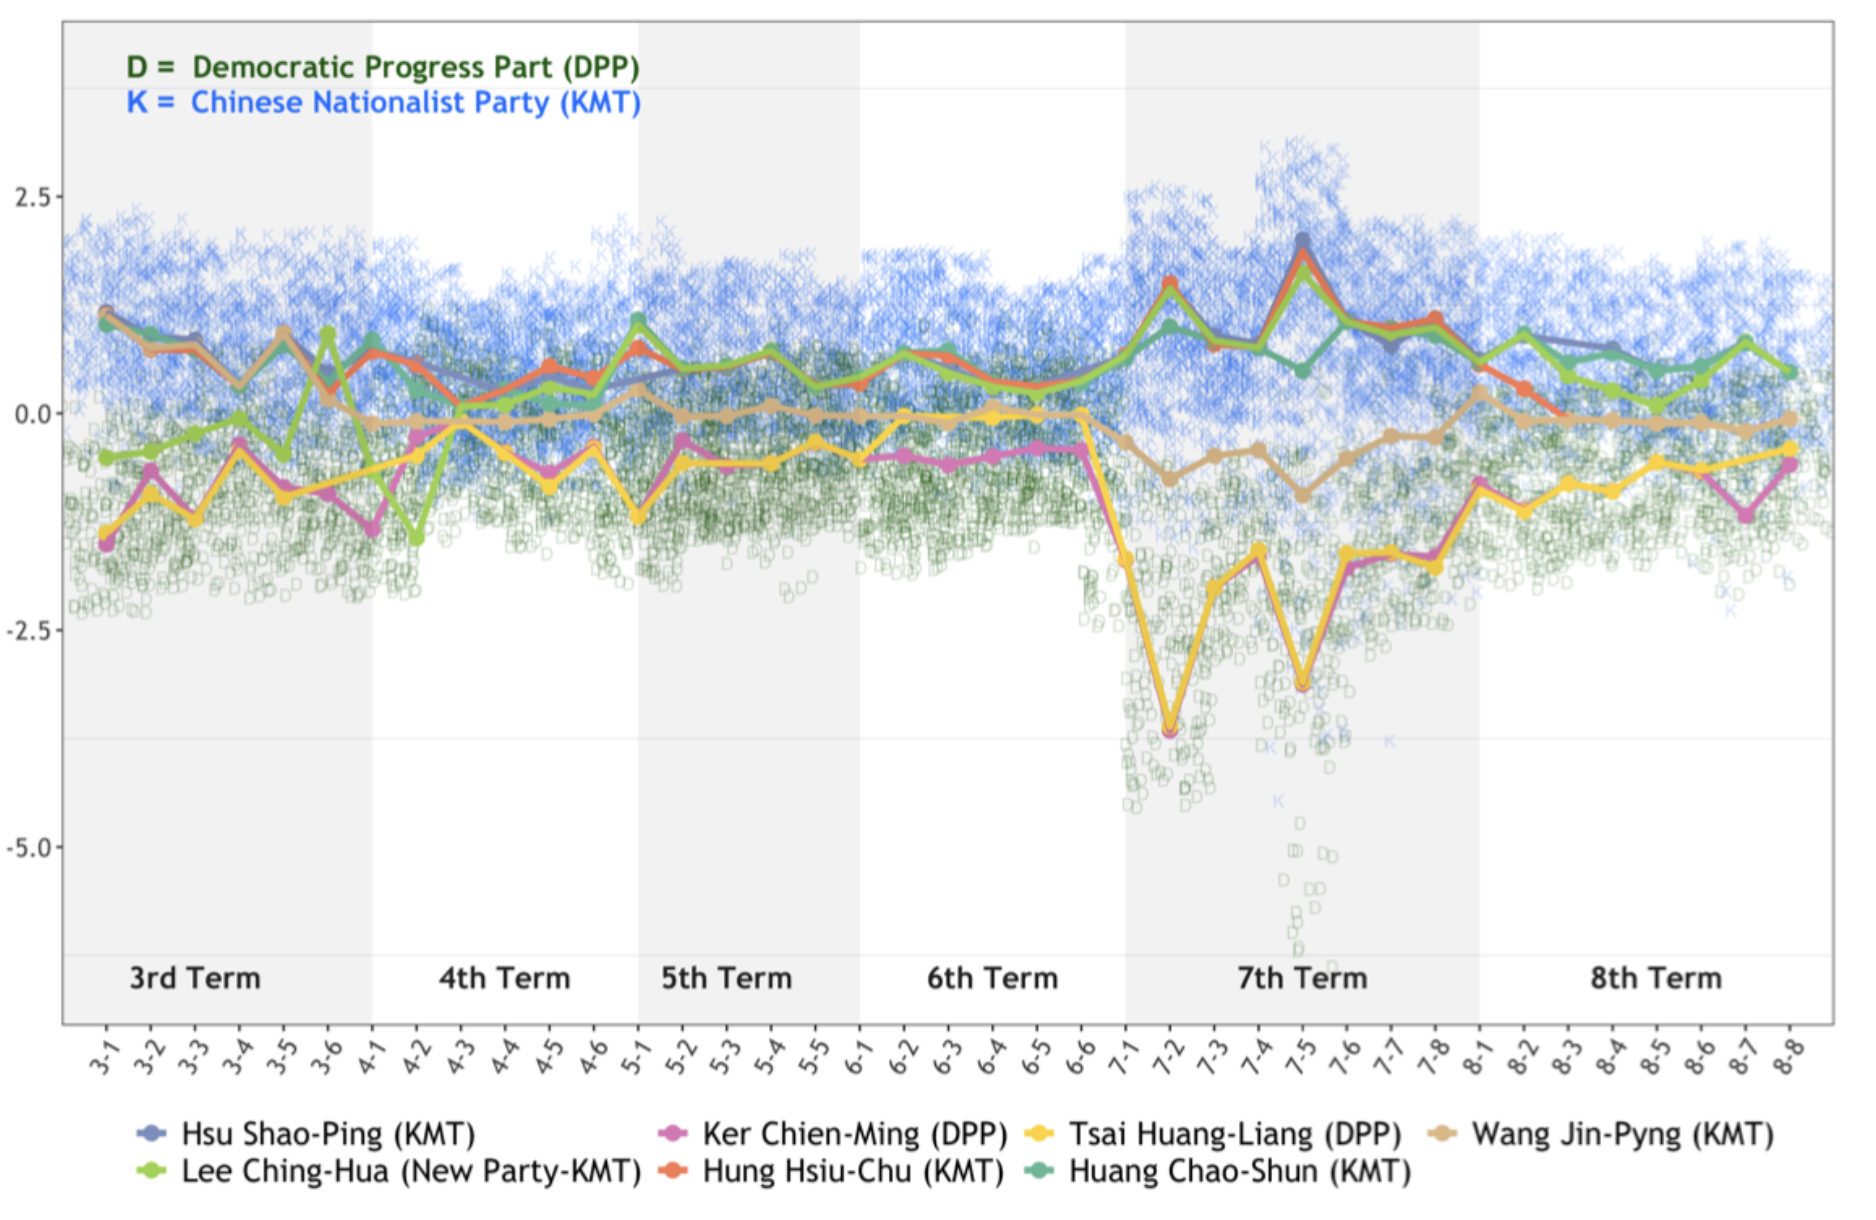
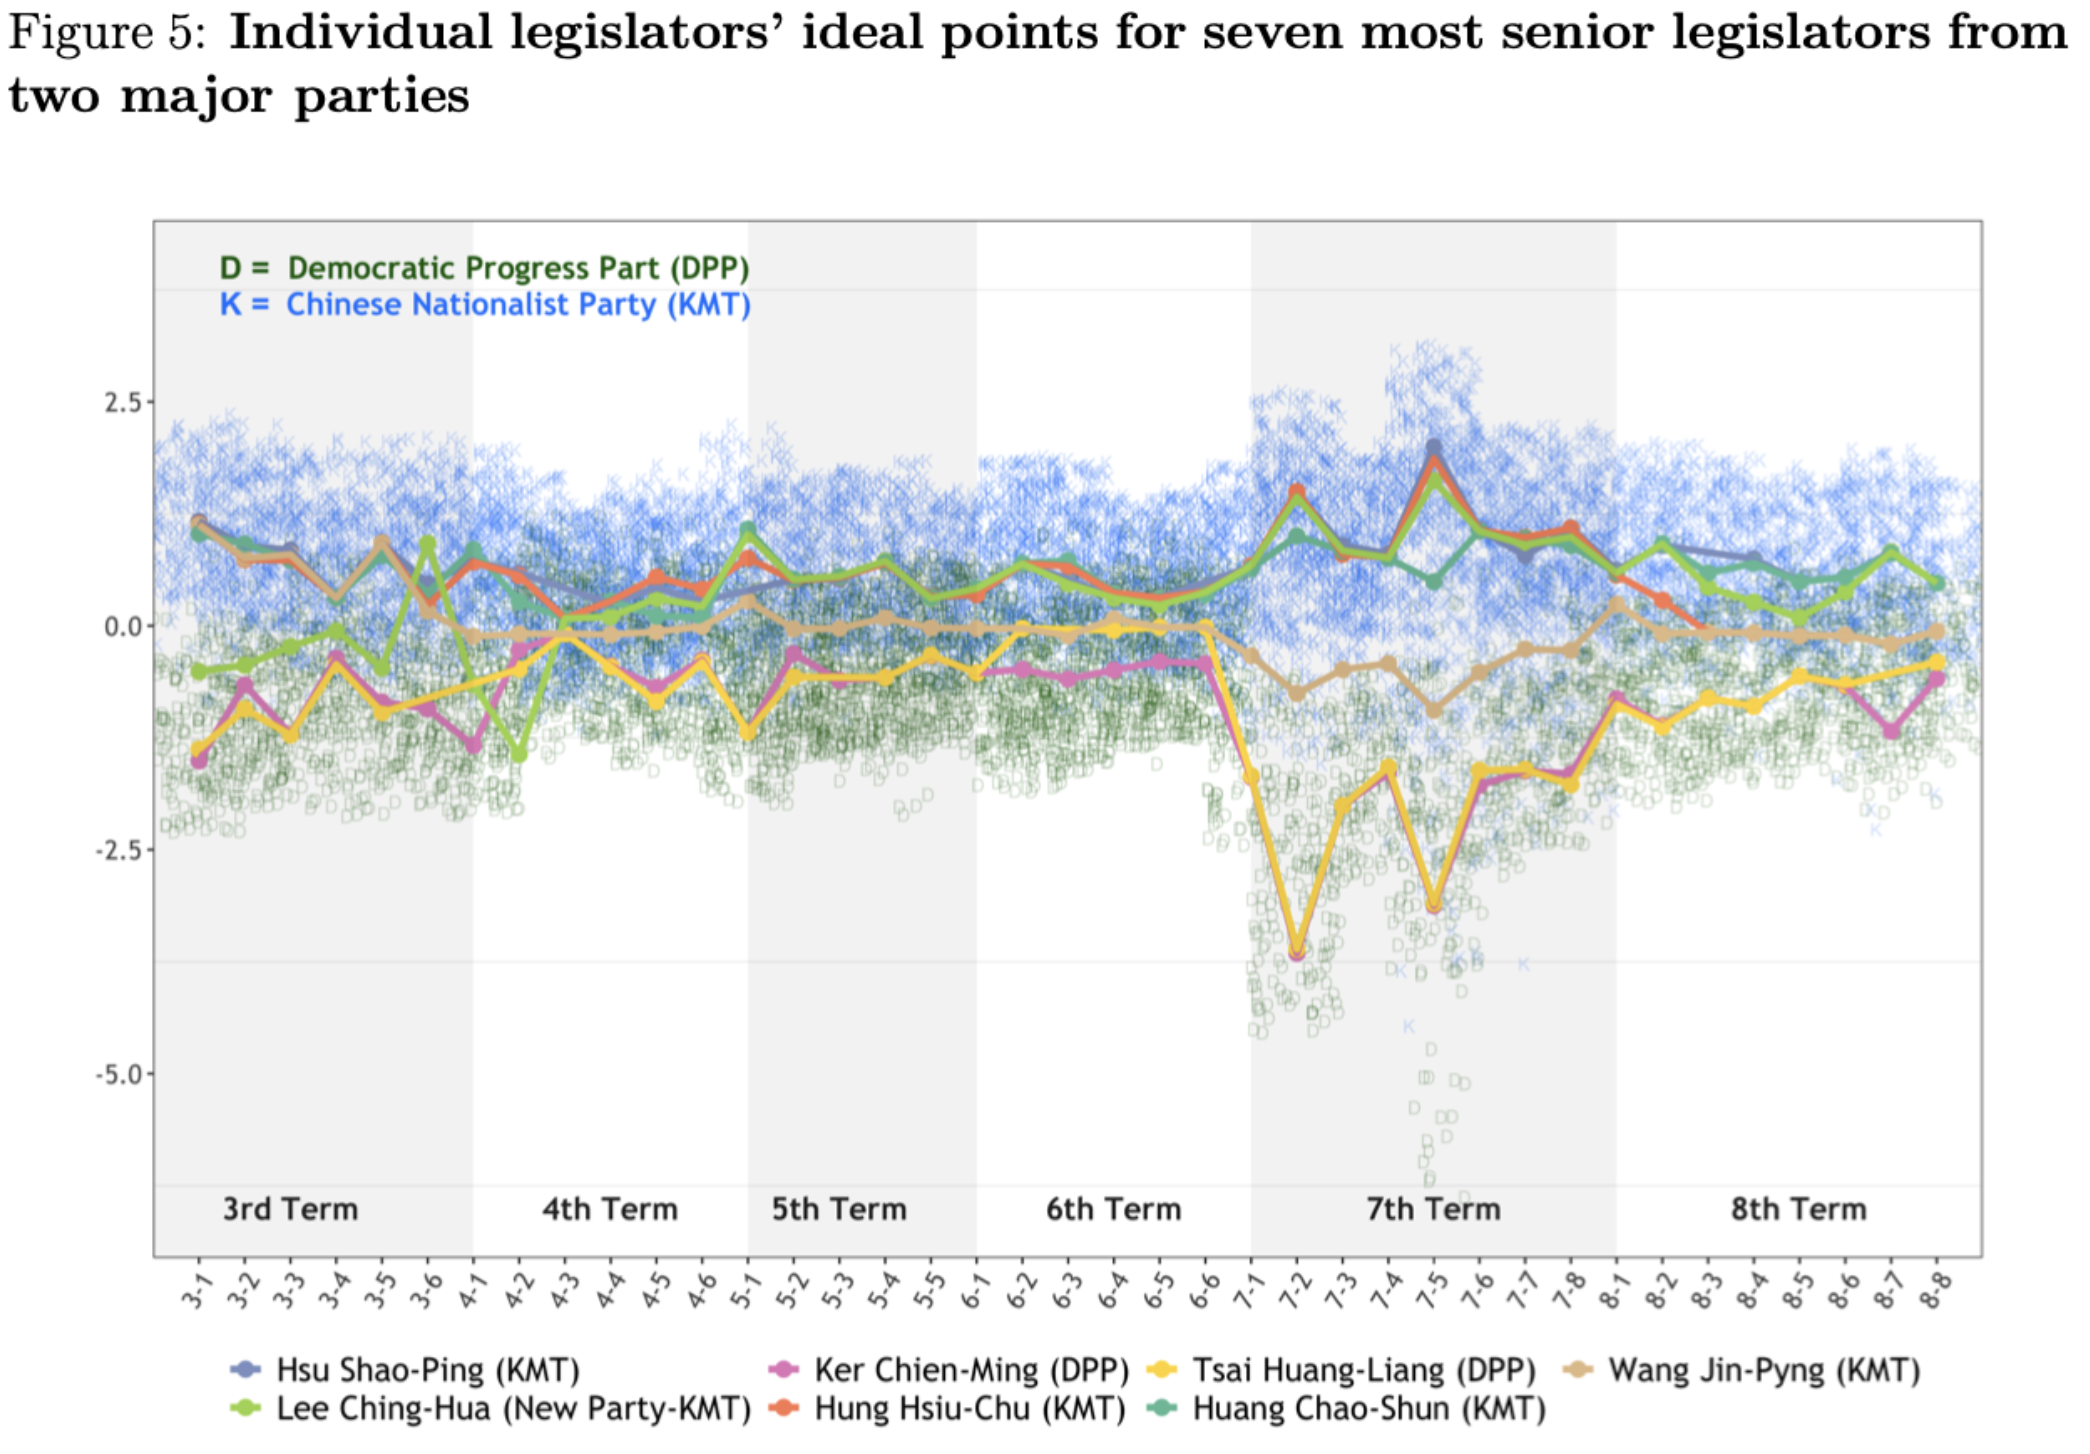
update

diff --git a/2022/01/event2/index.html b/2022/01/event2/index.html
@@ -36,7 +36,7 @@
             },"description": ""
     }
     </script></head>
-    <body header-desktop="fixed" header-mobile="auto"><script type="text/javascript">(window.localStorage && localStorage.getItem('theme') ? localStorage.getItem('theme') === 'dark' : ('auto' === 'auto' ? window.matchMedia('(prefers-color-scheme: dark)').matches : 'auto' === 'dark')) && document.body.setAttribute('theme', 'dark');</script>
+    <body header-desktop="fixed" header-mobile="auto"><script type="text/javascript">(window.localStorage && localStorage.getItem('theme') ? localStorage.getItem('theme') === 'dark' : ('dark' === 'auto' ? window.matchMedia('(prefers-color-scheme: dark)').matches : 'dark' === 'dark')) && document.body.setAttribute('theme', 'dark');</script>
 
         <div id="mask"></div><div class="wrapper"><header class="desktop" id="header-desktop">
     <div class="header-wrapper">
@@ -81,7 +81,14 @@
                 <i class="far fa-clock fa-fw"></i>&nbsp;One minute&nbsp;<span id="/2022/01/event2/" class="leancloud_visitors" data-flag-title="Presentation @ COMPTEXT 2022">
                         <i class="far fa-eye fa-fw"></i>&nbsp;<span class=leancloud-visitors-count></span>&nbsp;views
                     </span>&nbsp;</div>
-        </div><div class="details toc" id="toc-static"  kept="">
+        </div><div class="featured-image"><img
+        class="lazyload"
+        src="/svg/loading.min.svg"
+        data-src="/images/comptext.png"
+        data-srcset="/images/comptext.png, /images/comptext.png 1.5x, /images/comptext.png 2x"
+        data-sizes="auto"
+        alt="/images/comptext.png"
+        title="/images/comptext.png" /></div><div class="details toc" id="toc-static"  kept="">
                 <div class="details-summary toc-title">
                     <span>Contents</span>
                     <span><i class="details-icon fas fa-angle-right"></i></span>

diff --git a/tags/taiwan-politics/index.html b/tags/taiwan-politics/index.html
@@ -18,7 +18,7 @@
         <link rel="icon" type="image/png" sizes="32x32" href="/favicon-32x32.png">
         <link rel="icon" type="image/png" sizes="16x16" href="/favicon-16x16.png"><link rel="apple-touch-icon" sizes="180x180" href="/apple-touch-icon.png"><link rel="manifest" href="/site.webmanifest"><link rel="canonical" href="https://davidycliao.github.io/tags/taiwan-politics/" /><link rel="alternate" href="/tags/taiwan-politics/index.xml" type="application/rss+xml" title="DAVID LIAO">
     <link rel="feed" href="/tags/taiwan-politics/index.xml" type="application/rss+xml" title="DAVID LIAO"><link rel="stylesheet" href="/lib/normalize/normalize.min.css"><link rel="stylesheet" href="/css/style.min.css"><link rel="stylesheet" href="/lib/fontawesome-free/all.min.css"><link rel="stylesheet" href="/lib/animate/animate.min.css"></head>
-    <body header-desktop="fixed" header-mobile="auto"><script type="text/javascript">(window.localStorage && localStorage.getItem('theme') ? localStorage.getItem('theme') === 'dark' : ('auto' === 'auto' ? window.matchMedia('(prefers-color-scheme: dark)').matches : 'auto' === 'dark')) && document.body.setAttribute('theme', 'dark');</script>
+    <body header-desktop="fixed" header-mobile="auto"><script type="text/javascript">(window.localStorage && localStorage.getItem('theme') ? localStorage.getItem('theme') === 'dark' : ('dark' === 'auto' ? window.matchMedia('(prefers-color-scheme: dark)').matches : 'dark' === 'dark')) && document.body.setAttribute('theme', 'dark');</script>
 
         <div id="mask"></div><div class="wrapper"><header class="desktop" id="header-desktop">
     <div class="header-wrapper">
